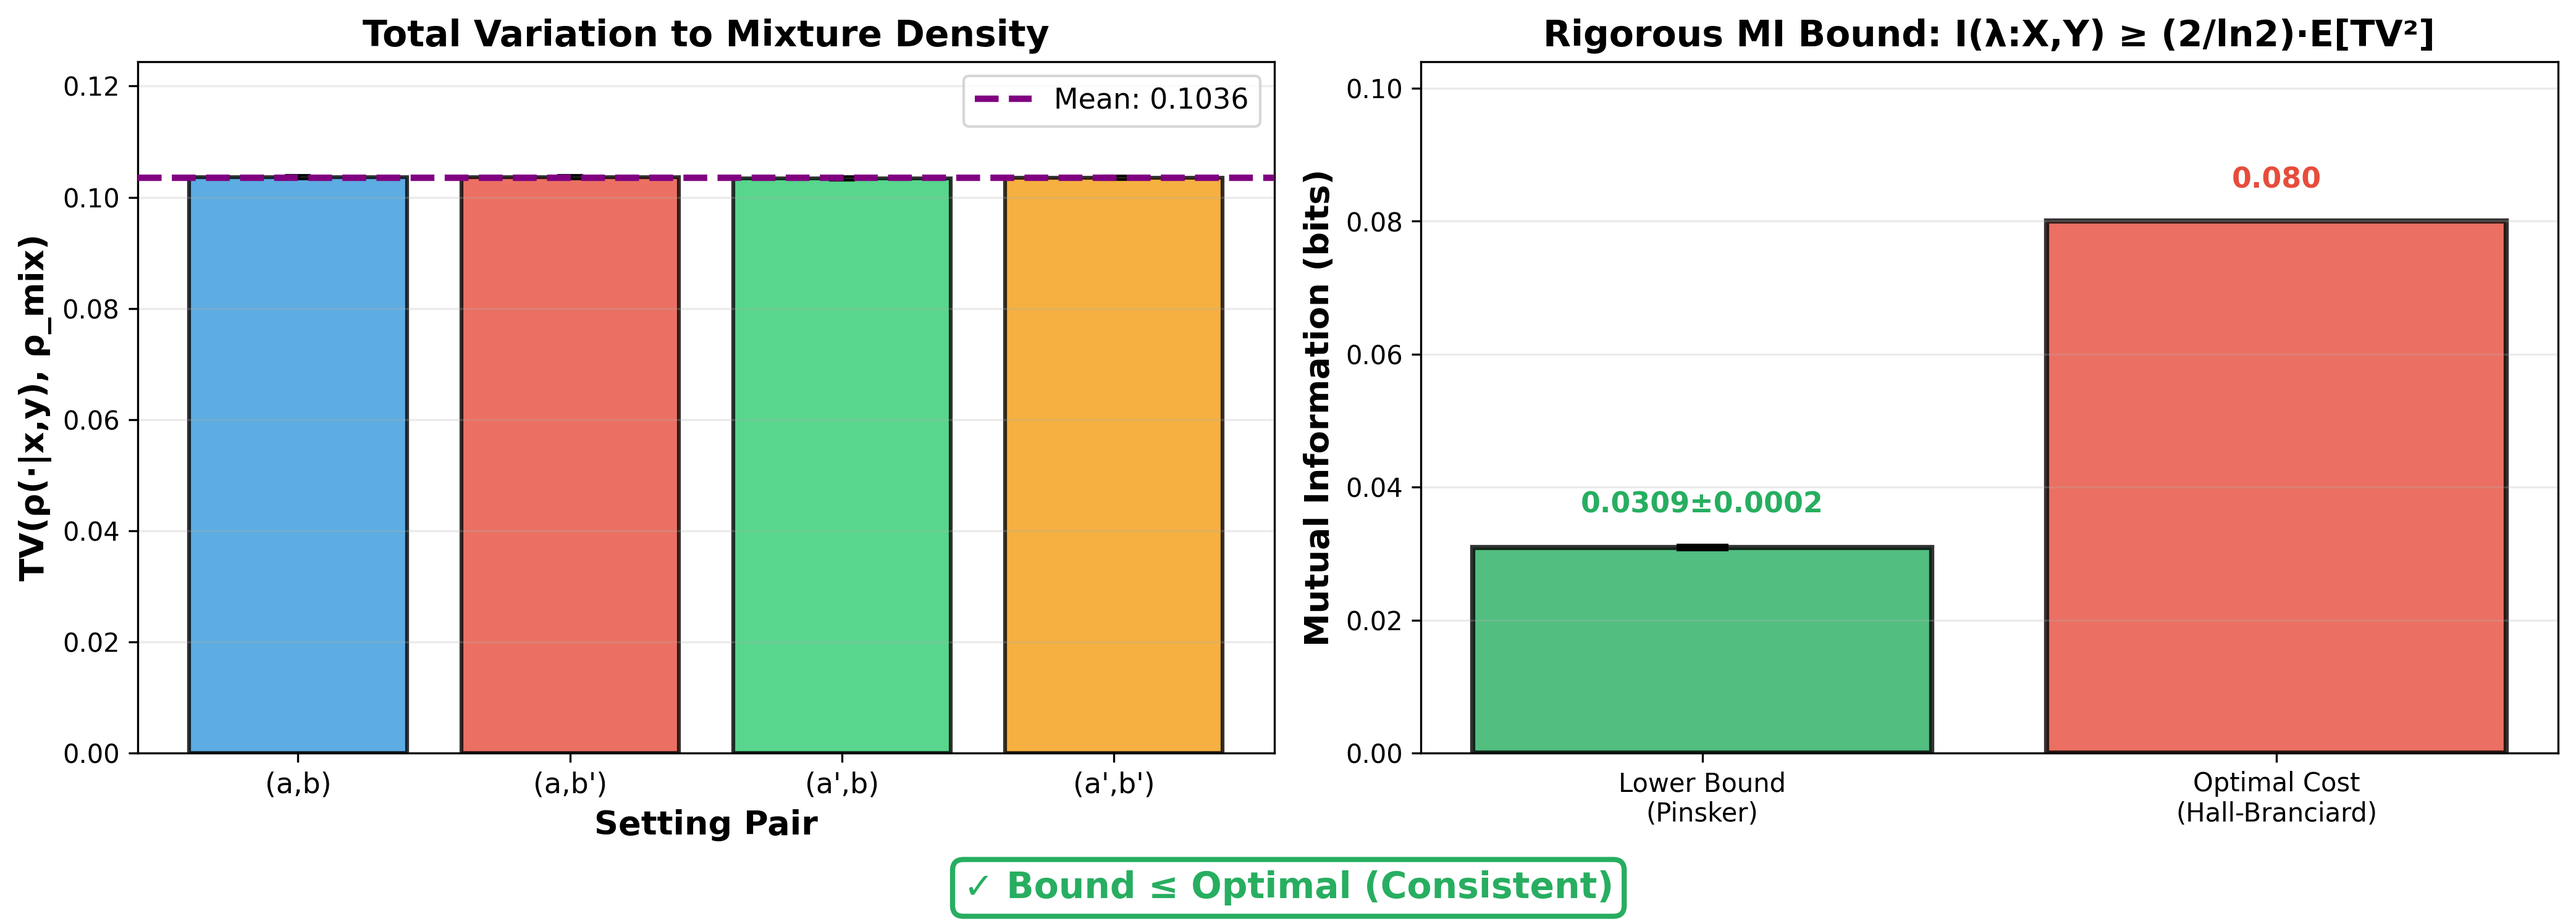
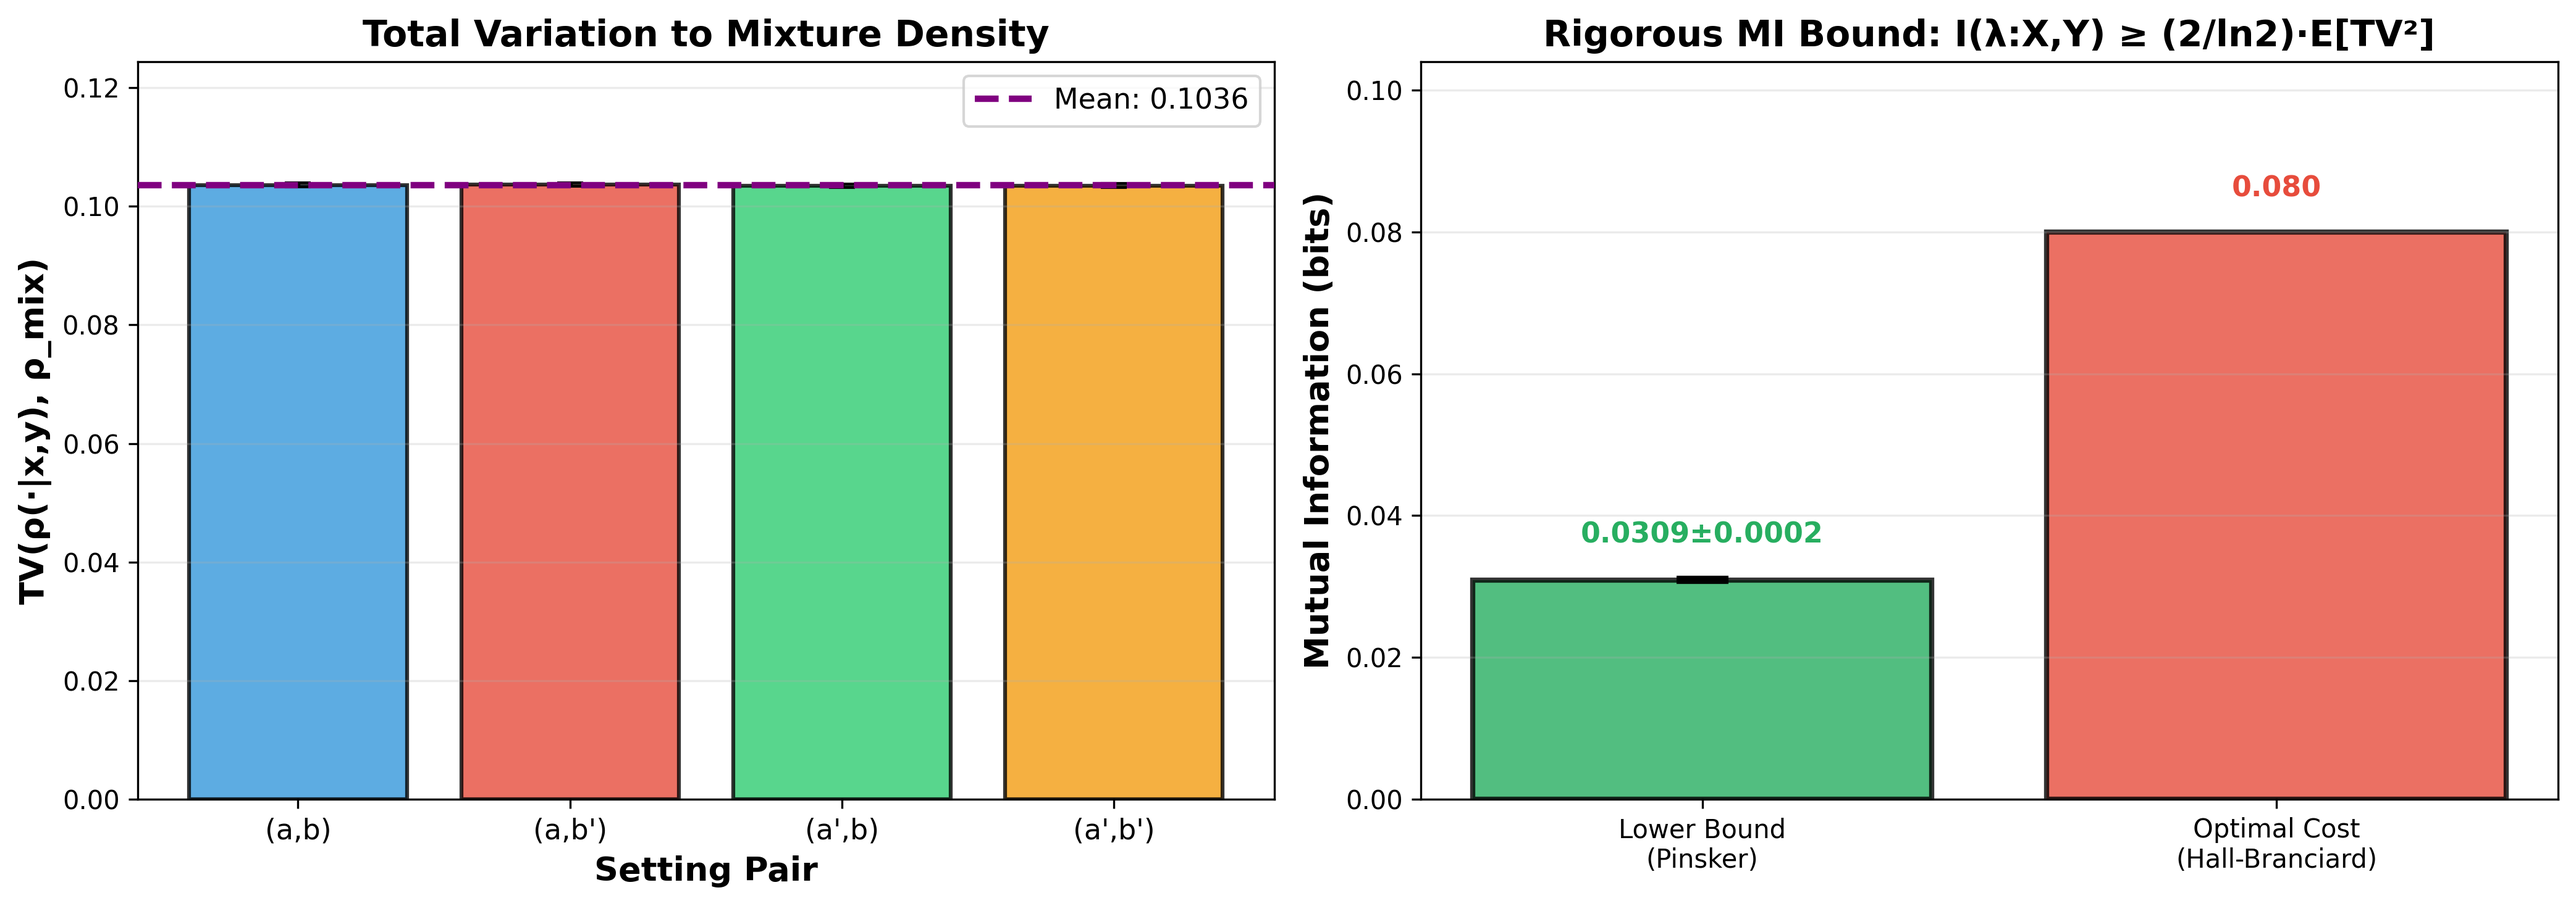
this is what i get for letting claude do my diagrams, and for not checking the output again after making changes

diff --git a/bell-md-local-validation/figures.py b/bell-md-local-validation/figures.py
@@ -168,16 +168,7 @@ def plot_mi_pinsker_bound(mi_result: dict, output_path: Path):
     ax2.set_ylim([0, hall_bench * 1.3])
     ax2.grid(axis='y', alpha=0.25)
     
-    # Add consistency check annotation
-    consistent = mi_lower < hall_bench
-    check_text = '✓ Bound ≤ Optimal (Consistent)' if consistent else '✗ Exceeds optimal'
-    check_color = '#27AE60' if consistent else '#E74C3C'
-    
-    fig.text(0.5, 0.02, check_text, ha='center', fontsize=14, 
-             fontweight='bold', color=check_color,
-             bbox=dict(boxstyle='round', facecolor='white', edgecolor=check_color, linewidth=2))
-    
-    plt.tight_layout(rect=[0, 0.05, 1, 1])
+    plt.tight_layout()
     plt.savefig(output_path, dpi=300, bbox_inches='tight')
     plt.close()
 
@@ -223,15 +214,6 @@ def plot_witness_product(df: pd.DataFrame, output_path: Path):
     ax2.legend(fontsize=11)
     ax2.grid(axis='y', alpha=0.25)
     
-    # Overall pass/fail indicator
-    all_pass = df['pass'].all() and df['entropy_pass'].all()
-    status_text = '✓ ALL TESTS PASS' if all_pass else '✗ SOME TESTS FAILED'
-    status_color = '#27AE60' if all_pass else '#E74C3C'
-    
-    fig.text(0.5, 0.02, status_text, ha='center', fontsize=14, 
-             fontweight='bold', color=status_color,
-             bbox=dict(boxstyle='round', facecolor='white', edgecolor=status_color, linewidth=2))
-    
-    plt.tight_layout(rect=[0, 0.05, 1, 1])
+    plt.tight_layout()
     plt.savefig(output_path, dpi=300, bbox_inches='tight')
     plt.close()
